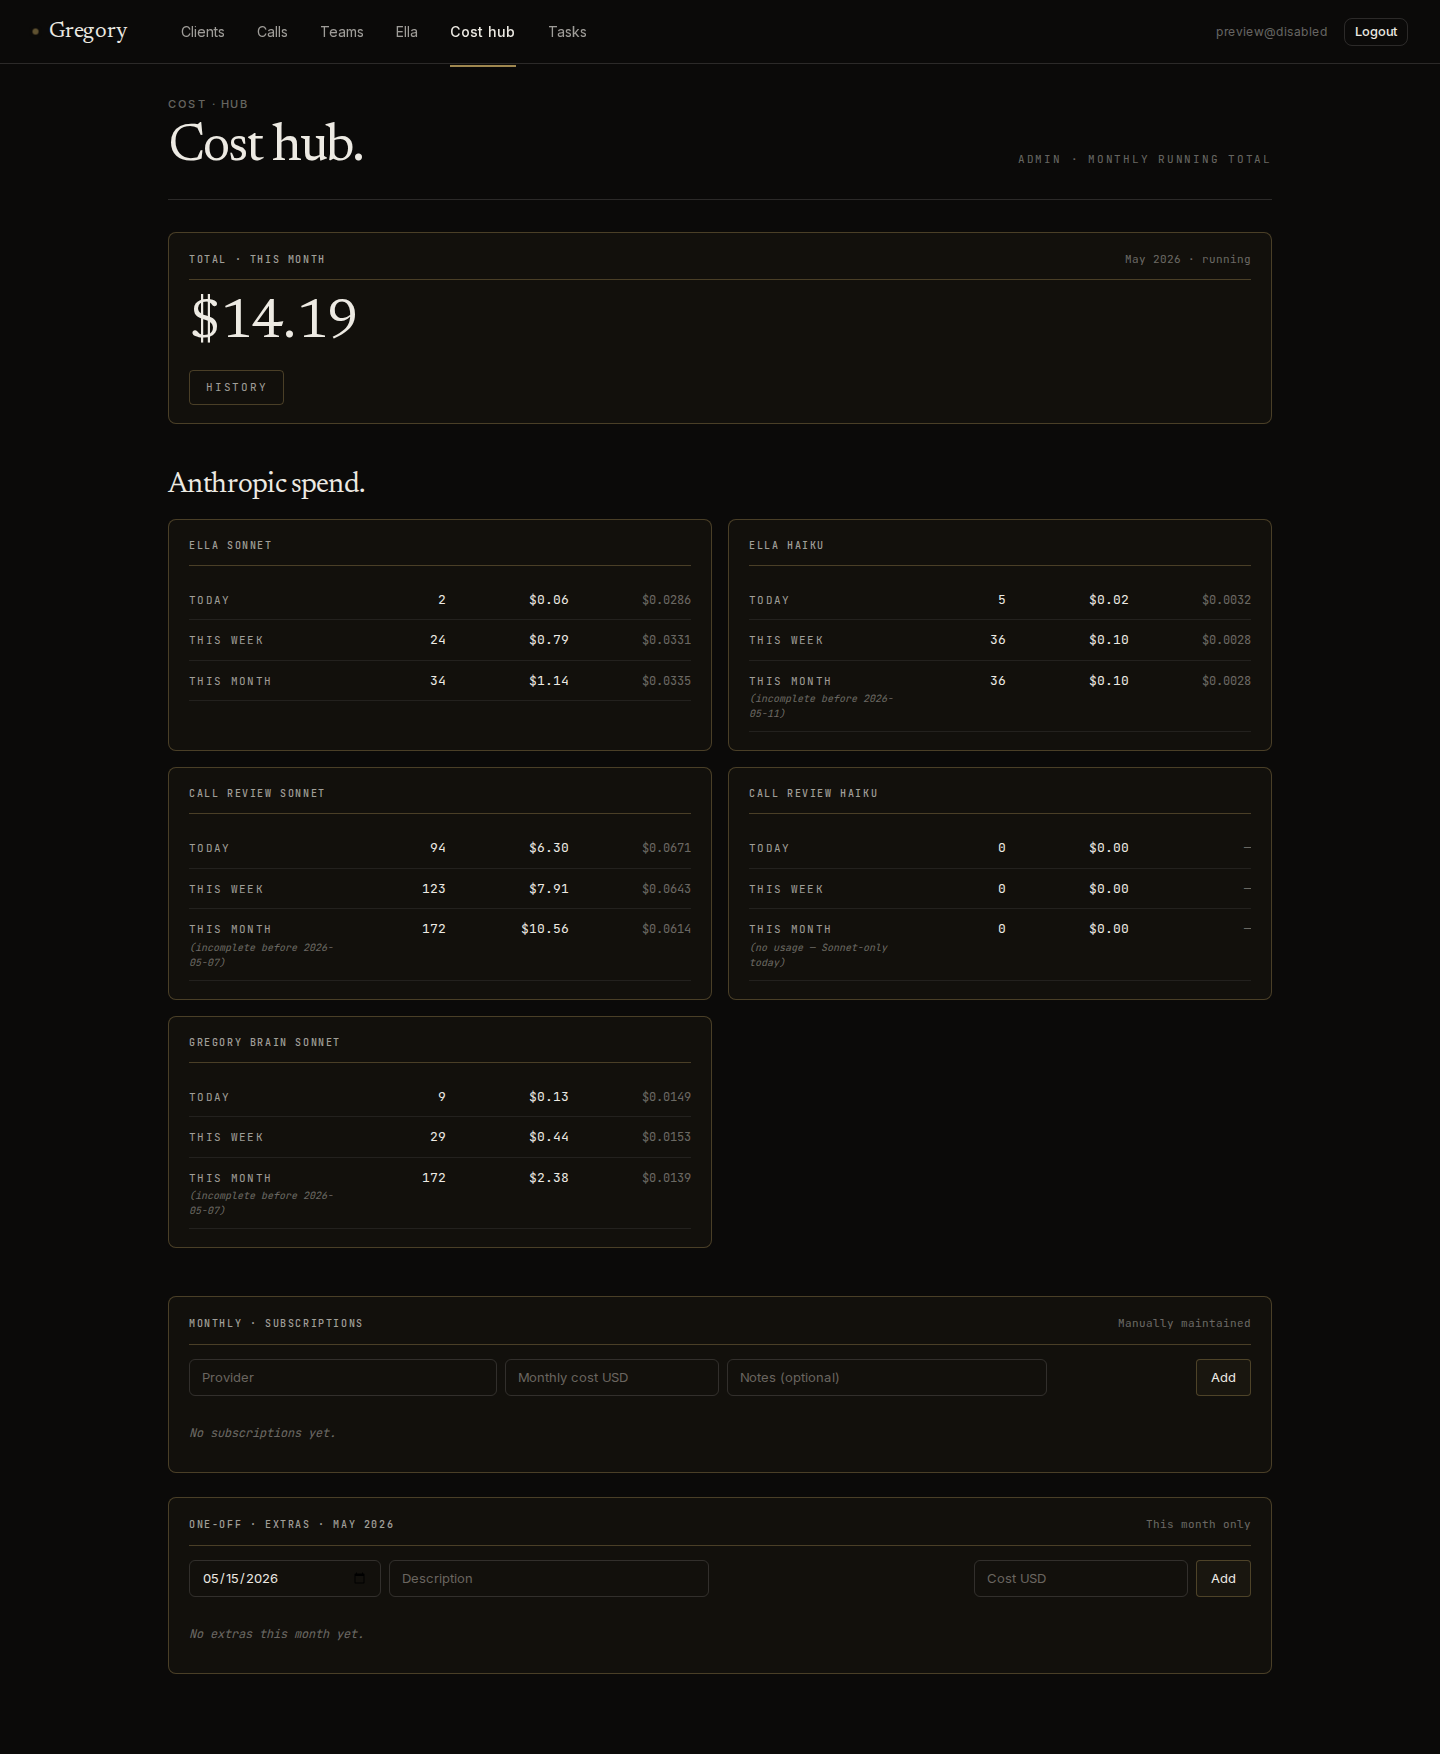
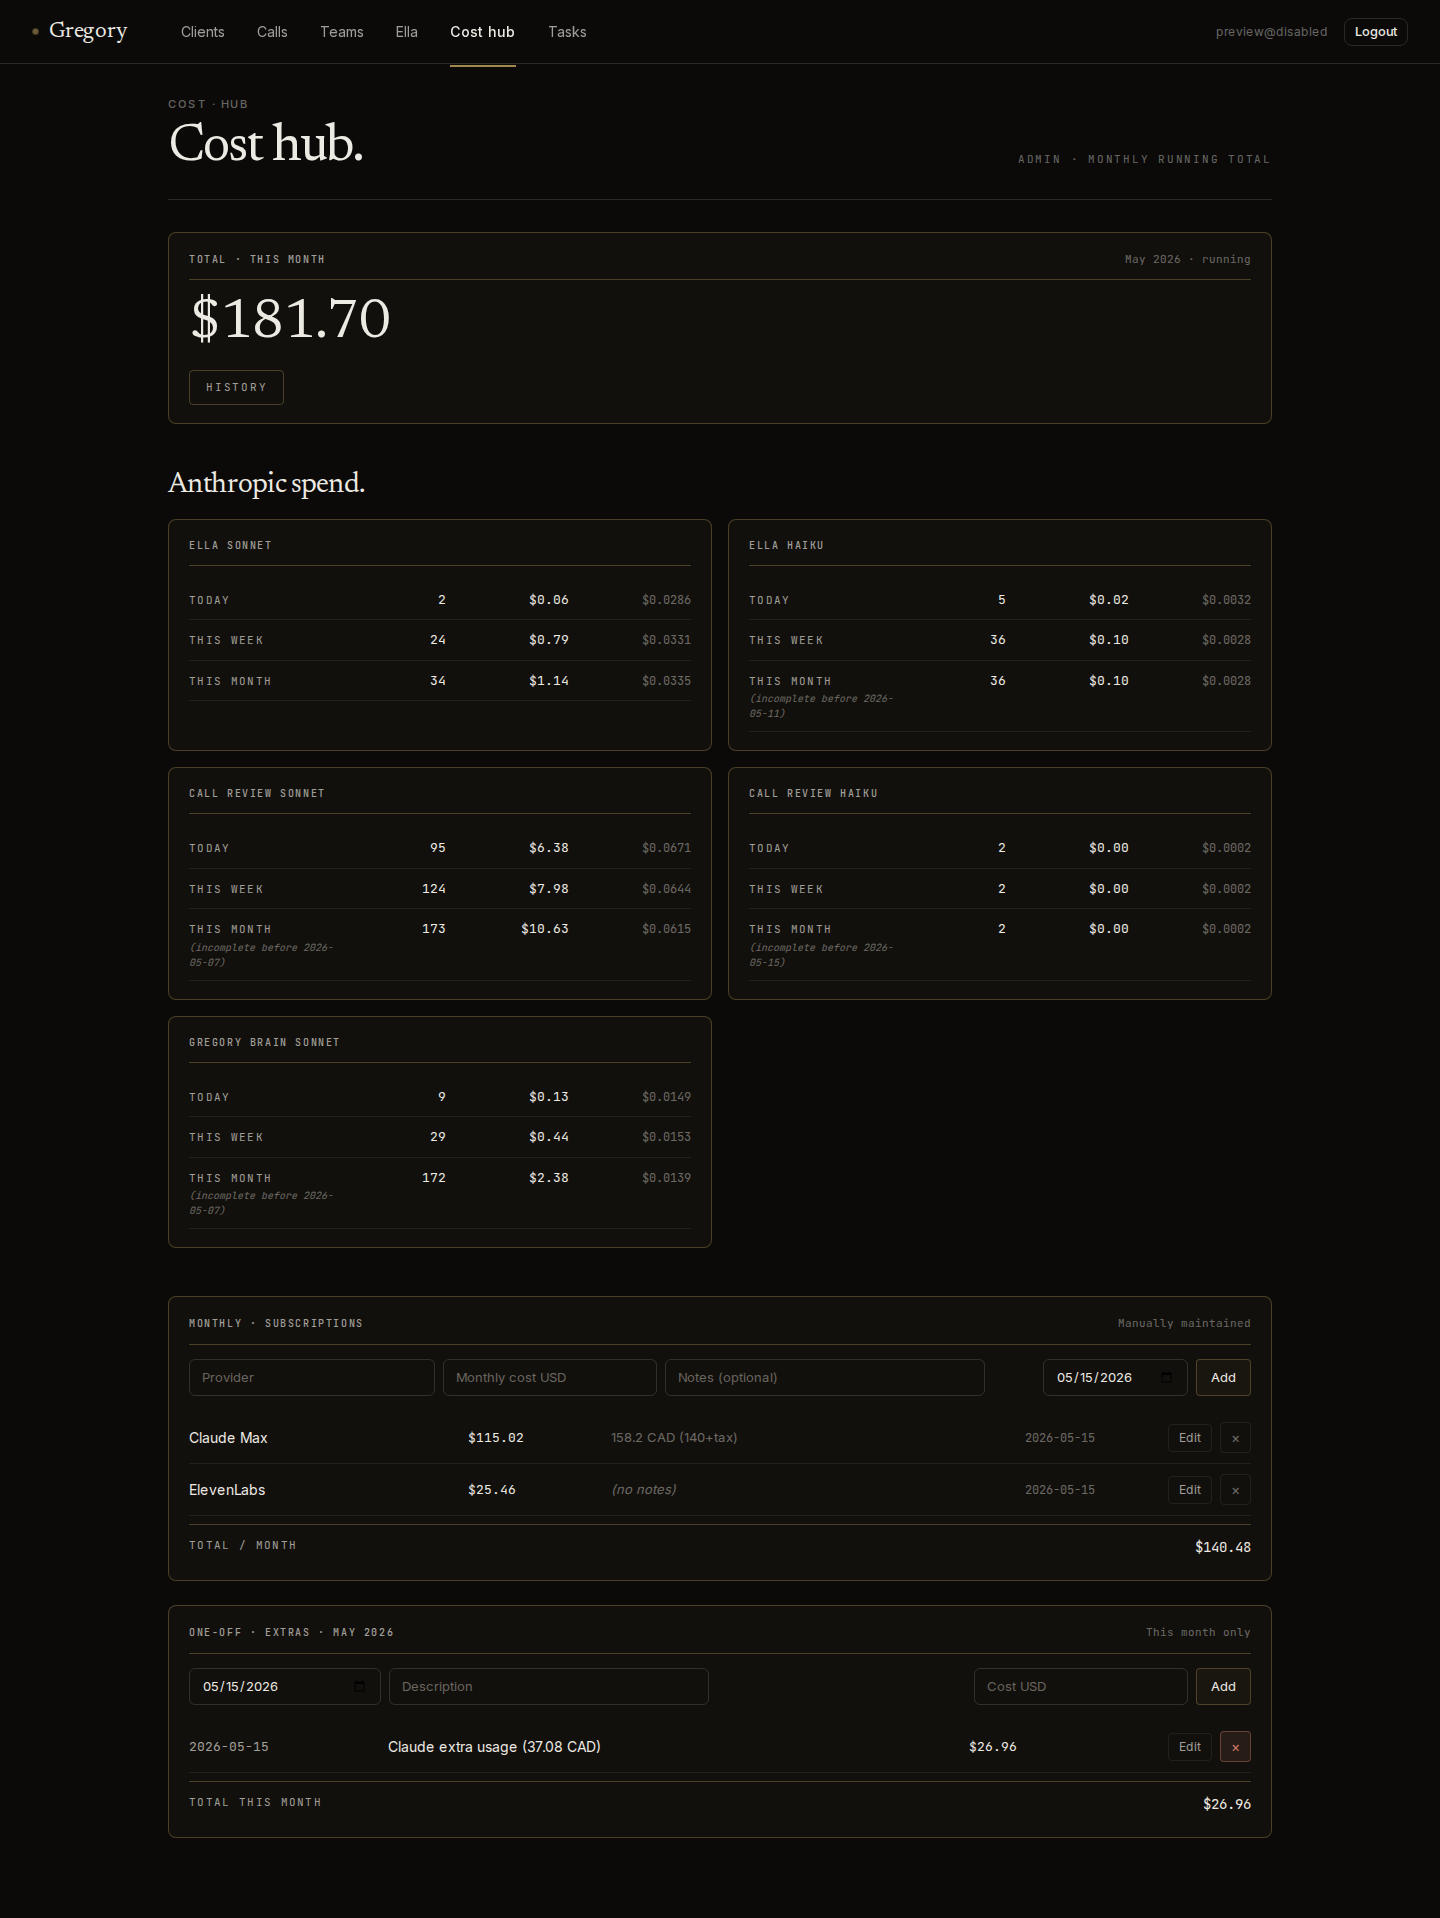
cost-hub: verifier exercises effective_from + runbook section
verify-cost-hub-preview.ts: subscription step now adds a backdated
sub (effective_from ~2 months ago) AND a today-dated sub, asserts
both appear in the active table, then soft-archives both. Per spec,
the rollup correctness (backdated counts in history, today-dated
doesn't) is validated via SQL inspection in the report rather than
through Playwright's fiddly server-rendered History assertions.
Verified PASS against a local dev server.

cost_hub.md: new "Subscription effective date" section (the rule,
the default, the backdating use case, archived-sub window semantics,
existing-row backfill). Clarified the price-drift section so
effective_from isn't conflated with per-month price history.

diff --git a/scripts/verify-cost-hub-preview.ts b/scripts/verify-cost-hub-preview.ts
@@ -86,25 +86,59 @@ async function main(): Promise<void> {
     const subBox = page
       .locator('.geg-gold-box', { hasText: 'MONTHLY · SUBSCRIPTIONS' })
       .first()
+
+    // Two-months-ago date for the backdated sub.
+    const now = new Date()
+    const backMonth = new Date(now.getFullYear(), now.getMonth() - 2, 15)
+    const backDated = `${backMonth.getFullYear()}-${String(
+      backMonth.getMonth() + 1,
+    ).padStart(2, '0')}-15`
+    const today = `${now.getFullYear()}-${String(now.getMonth() + 1).padStart(
+      2,
+      '0',
+    )}-${String(now.getDate()).padStart(2, '0')}`
+
+    const TEST_SUB_BACKDATED = `${TEST_SUB_PROVIDER}_backdated`
+
+    // 4a. Backdated sub (effective_from = ~2 months ago). Appears in
+    // the active table because backdated ≤ today.
+    await subBox.locator('input[placeholder="Provider"]').fill(TEST_SUB_BACKDATED)
+    await subBox.locator('input[placeholder="Monthly cost USD"]').fill('20.00')
+    await subBox.locator('input[placeholder="Notes (optional)"]').fill('backdated')
+    await subBox.locator('input[aria-label="Effective from"]').fill(backDated)
+    await subBox.locator('button[type="submit"]:has-text("Add")').click()
+    await page.waitForSelector(`text=${TEST_SUB_BACKDATED}`, { timeout: 15_000 })
+    console.log(
+      `[verify] backdated subscription added (effective_from=${backDated}) + visible in active table`,
+    )
+
+    // 4b. Today-dated sub. Also appears in the active table.
     await subBox.locator('input[placeholder="Provider"]').fill(TEST_SUB_PROVIDER)
-    await subBox
-      .locator('input[placeholder="Monthly cost USD"]')
-      .fill('12.34')
+    await subBox.locator('input[placeholder="Monthly cost USD"]').fill('12.34')
     await subBox.locator('input[placeholder="Notes (optional)"]').fill('verify')
+    await subBox.locator('input[aria-label="Effective from"]').fill(today)
     await subBox.locator('button[type="submit"]:has-text("Add")').click()
     await page.waitForSelector(`text=${TEST_SUB_PROVIDER}`, { timeout: 15_000 })
-    console.log('[verify] test subscription added + visible')
+    console.log(
+      `[verify] today-dated subscription added (effective_from=${today}) + visible in active table`,
+    )
 
-    page.once('dialog', (d) => d.accept())
-    const subRow = subBox
-      .locator('div', { hasText: TEST_SUB_PROVIDER })
-      .last()
-    await subRow.locator(`button[aria-label="Delete ${TEST_SUB_PROVIDER}"]`).click()
-    await page.waitForSelector(`text=${TEST_SUB_PROVIDER}`, {
-      state: 'detached',
-      timeout: 15_000,
-    })
-    console.log('[verify] test subscription deleted (soft-archived)')
+    // Cost-rollup correctness (backdated sub counts in 2-months-ago
+    // history, today-dated sub does NOT) is validated via SQL
+    // inspection in the report — the History view's per-month totals
+    // are server-rendered and fiddly to assert through Playwright.
+
+    // 4c. Delete both (soft-archive cleanup).
+    for (const prov of [TEST_SUB_BACKDATED, TEST_SUB_PROVIDER]) {
+      page.once('dialog', (d) => d.accept())
+      const subRow = subBox.locator('div', { hasText: prov }).last()
+      await subRow.locator(`button[aria-label="Delete ${prov}"]`).click()
+      await page.waitForSelector(`text=${prov}`, {
+        state: 'detached',
+        timeout: 15_000,
+      })
+    }
+    console.log('[verify] both test subscriptions deleted (soft-archived)')
 
     // --- 5. Add + delete a one-off extra ---
     const extraBox = page

diff --git a/docs/runbooks/cost_hub.md b/docs/runbooks/cost_hub.md
@@ -101,15 +101,55 @@ If reality drifts, update `earliestReliableDate` per bucket in
 
 ## Manual subs + extras workflow
 
-**Add a subscription:** fill provider / monthly cost / notes in the
-Monthly subscriptions box → Add. **Edit:** click Edit on a row, change
-fields, Save. **Delete:** click × → confirm. Delete is a SOFT archive
-(sets `archived_at`), so historical month totals stay accurate for
-months when the sub was active.
+**Add a subscription:** fill provider / monthly cost / notes /
+effective from in the Monthly subscriptions box → Add. **Edit:** click
+Edit on a row, change fields (including effective from), Save.
+**Delete:** click × → confirm. Delete is a SOFT archive (sets
+`archived_at`), so historical month totals stay accurate for months
+when the sub was active.
 
 **Add an extra:** fill date / description / cost in the One-off extras
 box → Add. The date defaults to today (EST) but can be backdated for
 late-arriving invoices. Same edit / soft-archive-delete shape.
+
+## Subscription effective date
+
+Each subscription carries an `effective_from` date (migration 0039).
+It governs which months the sub contributes to in the total + the
+History view. The rule (implemented once in
+`lib/db/cost-hub.ts:subscriptionActiveInMonth`):
+
+> A sub counts toward month **M** when `effective_from <= last_day_of_M`
+> **and** (`archived_at IS NULL` **or** `archived_at >= first_day_of_M`).
+
+**Why it exists.** Before 0039 the History view summed *every*
+non-archived subscription into *every* past month. A sub added today
+inflated last month, the month before, and so on back to the start of
+history. `effective_from` ties a sub to when it actually started.
+
+**The default.** The Add form defaults `effective_from` to today
+(EST). Add a sub normally and it counts from this month forward — it
+does **not** retroactively appear in prior months.
+
+**Backdating use case.** Drake realizes a subscription has been
+billing since (say) March but was only just added to the hub. Set
+`effective_from` to the March date (in the Add form, or Edit an
+existing row). The History view then retroactively attributes it to
+March, April, May, … — every month at-or-after `effective_from`. This
+is the intended escape hatch for "I forgot to log this sub for a few
+months."
+
+**Archived subs still count for their active window.** Soft-archiving
+a sub sets `archived_at`; the sub still contributes to every month
+between `effective_from` and the archive date. It only drops out of
+months that begin on/after the archive date. So deleting a sub today
+does not erase it from last month's total.
+
+**Existing-row backfill.** Migration 0039 set `effective_from =
+created_at::date` for the rows present at apply time — they retain
+the "started when I added them" semantic rather than silently
+counting back forever. If one of those should count from earlier,
+Edit the row and set the correct `effective_from`.
 
 ## Historical sub price drift (locked trade-off)
 
@@ -118,9 +158,14 @@ Monthly subs are stored as "current state" — one row per provider with
 use today's price even if the actual cost was different at the time.
 If a sub price changes mid-period, edit the row in place; old month
 totals shift slightly. This is a deliberate V1 simplification (Drake
-confirmed). If the drift becomes a reconciliation problem, future
-iteration is an `effective_from` column for per-row price history —
-out of scope for V1.
+confirmed).
+
+Note `effective_from` (migration 0039) does **not** solve this — it
+governs *which months a sub counts in*, not *what it cost in each
+month*. A sub that was $20 in March and $25 now still contributes $25
+to March's total. True per-month price history (a price-versioned
+sub-rows table or an `effective_from`-keyed price ledger) remains the
+out-of-scope-for-V1 future iteration if reconciliation ever needs it.
 
 ## Recovering a bad delete
 